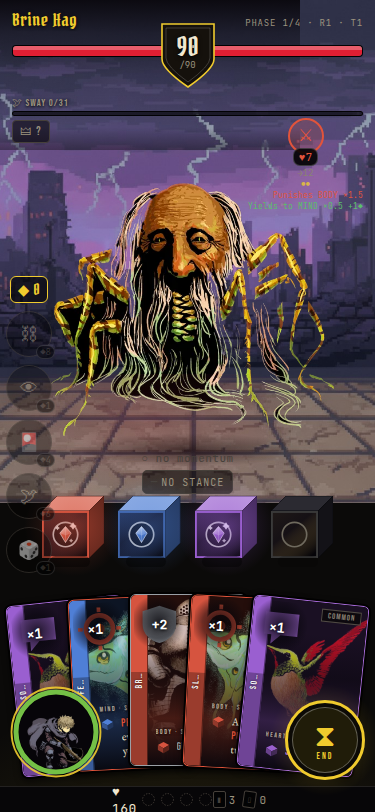
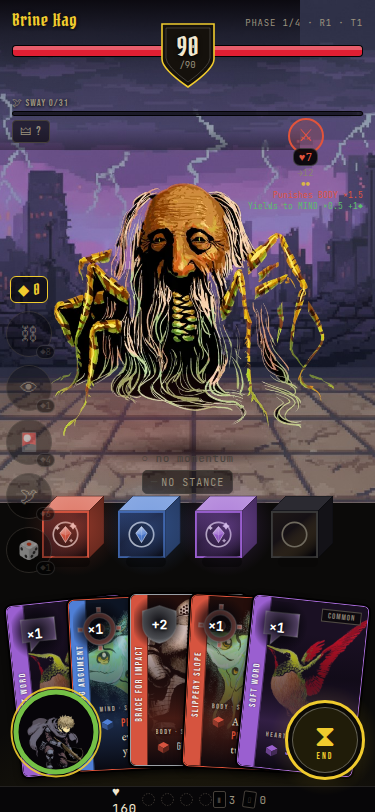
fix(combat): un-truncate the rail name (one-container rail) + FREE glyphs pop
Owner follow-up (2026-07-19, pass 3):

- The rail is ONE container: the two-tone bottom shade is gone, and the
  name label now lives in an explicitly-sized rotated box (width = card
  height, spun -90° in place) centred on the rail. Rotating the bare
  Text let the layout clamp it to the rail's 17pt width and ellipsize
  every name after two letters ("BR…") — names now render in full at
  both face sizes.
- FREE glyphs pop: the glyph brightens ~30% toward white with a light
  edge stroke, on a harder radial backdrop — the raw category colour
  read muddy over the full-bleed art. Inert cards stay honestly grey.

Verified: mobile verify green (lint + tsc + 2658 tests);
upgradeable-dice-e2e ALL PASS, screenshots refreshed — full names
legible along the rails.

Claude-Session: https://claude.ai/code/session_01ATuM8VXSUgok7qxmhtYrVC

diff --git a/axiomancer-mobile/components/combat/encounter/CombatBoard.tsx b/axiomancer-mobile/components/combat/encounter/CombatBoard.tsx
@@ -1464,6 +1464,16 @@ function compactFree(v: string | null): string {
     return v.length <= 3 ? v : v.slice(0, 3);
 }
 
+// Lighten a #rrggbb toward white by t (0..1) — the FREE glyph's pop tint
+// (owner call 2026-07-19: the category colours read muddy over the art).
+function lightenHex(hex: string, t: number): string {
+    const m = /^#?([0-9a-f]{6})$/i.exec(hex);
+    if (!m) return hex;
+    const n = parseInt(m[1], 16);
+    const ch = (v: number) => Math.round(v + (255 - v) * t);
+    return `rgb(${ch((n >> 16) & 255)},${ch((n >> 8) & 255)},${ch(n & 255)})`;
+}
+
 // Darken a #rrggbb by a factor (0..1) — the stance cube's shaded faces.
 function darkenHex(hex: string, f: number): string {
     const m = /^#?([0-9a-f]{6})$/i.exec(hex);
@@ -1589,17 +1599,26 @@ export const CombatCardFace = React.memo(function CombatCardFace({
                 </View>
                 {/* SCRIM — deep→transparent so the bottom text stays legible */}
                 <FaceScrim w={width} h={height} uid={card.uid} tint={band} />
-                {/* LEFT RAIL — stance spine carrying the card NAME, centred on the
-                    rail (owner declutter pass 2026-07-19: the name moved here off
-                    the bottom block; the STANCE · TYPE strip took its old slot). */}
+                {/* LEFT RAIL — ONE stance-coloured container (the two-tone bottom
+                    shade is gone, owner call 2026-07-19) carrying the card NAME
+                    rotated -90° and centred. The label sits in an explicitly-sized
+                    rotated box (width = card height): rotating the bare Text let
+                    the layout clamp it to the rail's width and ellipsize the name
+                    after two letters (owner report, same day). */}
                 <View style={[styles.faceRail, { width: railW, backgroundColor: band }]} pointerEvents="none">
-                    <View style={[styles.faceRailShade, { width: railW }]} />
-                    <View style={styles.faceRailLabelWrap}>
+                    <View
+                        style={[styles.faceRailRotor, {
+                            left: (railW - height) / 2,
+                            top: (height - railW) / 2,
+                            width: height,
+                            height: railW,
+                        }]}
+                    >
                         <Text
-                            style={[styles.faceRailLabel, large && styles.faceRailLabelLarge, { width: height - 16 }]}
+                            style={[styles.faceRailLabel, large && styles.faceRailLabelLarge]}
                             numberOfLines={1}
                             adjustsFontSizeToFit
-                            minimumFontScale={0.75}
+                            minimumFontScale={0.6}
                             allowFontScaling={false}
                         >
                             {card.name.toUpperCase()}
@@ -1613,19 +1632,29 @@ export const CombatCardFace = React.memo(function CombatCardFace({
                         <Svg width={glyphSize} height={glyphSize} style={StyleSheet.absoluteFill}>
                             <Defs>
                                 <RadialGradient id={`fh_${card.uid}`} cx="48%" cy="46%" r="54%">
-                                    <Stop offset="0" stopColor="#06050a" stopOpacity="0.82" />
-                                    <Stop offset="0.6" stopColor="#06050a" stopOpacity="0.5" />
+                                    <Stop offset="0" stopColor="#06050a" stopOpacity="0.94" />
+                                    <Stop offset="0.6" stopColor="#06050a" stopOpacity="0.62" />
                                     <Stop offset="1" stopColor="#06050a" stopOpacity="0" />
                                 </RadialGradient>
                             </Defs>
                             <SvgRect x="0" y="0" width={glyphSize} height={glyphSize} fill={`url(#fh_${card.uid})`} />
                         </Svg>
+                        {/* POP tint (owner call 2026-07-19): the raw category colour
+                            read muddy over the art — the glyph brightens toward
+                            white and takes a light edge, on a harder backdrop.
+                            Inert stays honestly grey (engine doesn't read it). */}
                         {freeShape ? (
                             <Svg width={glyphSize * 0.86} height={glyphSize * 0.86} viewBox="0 0 24 24">
-                                <Path d={freeShape.d} fill={baseKw} fillRule={freeShape.evenodd ? 'evenodd' : 'nonzero'} opacity={0.95} />
+                                <Path
+                                    d={freeShape.d}
+                                    fill={f.inert ? baseKw : lightenHex(baseKw, 0.3)}
+                                    stroke={f.inert ? 'none' : 'rgba(255,255,255,0.45)'}
+                                    strokeWidth={0.7}
+                                    fillRule={freeShape.evenodd ? 'evenodd' : 'nonzero'}
+                                />
                             </Svg>
                         ) : (
-                            <Text style={[styles.freeGlyph, { fontSize: glyphSize, lineHeight: glyphSize, color: baseKw }]} allowFontScaling={false}>{f.freeGlyph}</Text>
+                            <Text style={[styles.freeGlyph, { fontSize: glyphSize, lineHeight: glyphSize, color: f.inert ? baseKw : lightenHex(baseKw, 0.3) }]} allowFontScaling={false}>{f.freeGlyph}</Text>
                         )}
                         {freeInner ? (
                             <View style={[StyleSheet.absoluteFill, { alignItems: 'center', justifyContent: 'center' }]} pointerEvents="none">
@@ -1870,12 +1899,12 @@ const useStyles = makeStyles((AXM) => ({
         position: 'absolute', left: 0, top: 0, bottom: 0,
         borderRightWidth: 1, borderRightColor: 'rgba(0,0,0,0.5)',
     },
-    faceRailShade: { position: 'absolute', left: 0, bottom: 0, height: '55%', backgroundColor: 'rgba(0,0,0,0.28)' },
-    // Full-rail centred wrap: the rotated label spans (height − 16), so the
-    // whole card name renders un-truncated at every card size.
-    faceRailLabelWrap: { ...StyleSheet.absoluteFillObject, alignItems: 'center', justifyContent: 'center' },
+    // The rotated label box: sized (card height × rail width) and spun -90° in
+    // place, so the name lays out at full card-height width — never clamped to
+    // the rail's own width — and centres along the rail.
+    faceRailRotor: { position: 'absolute', transform: [{ rotate: '-90deg' }], alignItems: 'center', justifyContent: 'center' },
     faceRailLabel: {
-        textAlign: 'center', transform: [{ rotate: '-90deg' }],
+        textAlign: 'center', maxWidth: '96%',
         fontFamily: FONTS.sans, fontSize: 9, letterSpacing: 1.6, color: 'rgba(255,255,255,0.95)',
         textShadowColor: 'rgba(0,0,0,0.7)', textShadowRadius: 2,
     },
